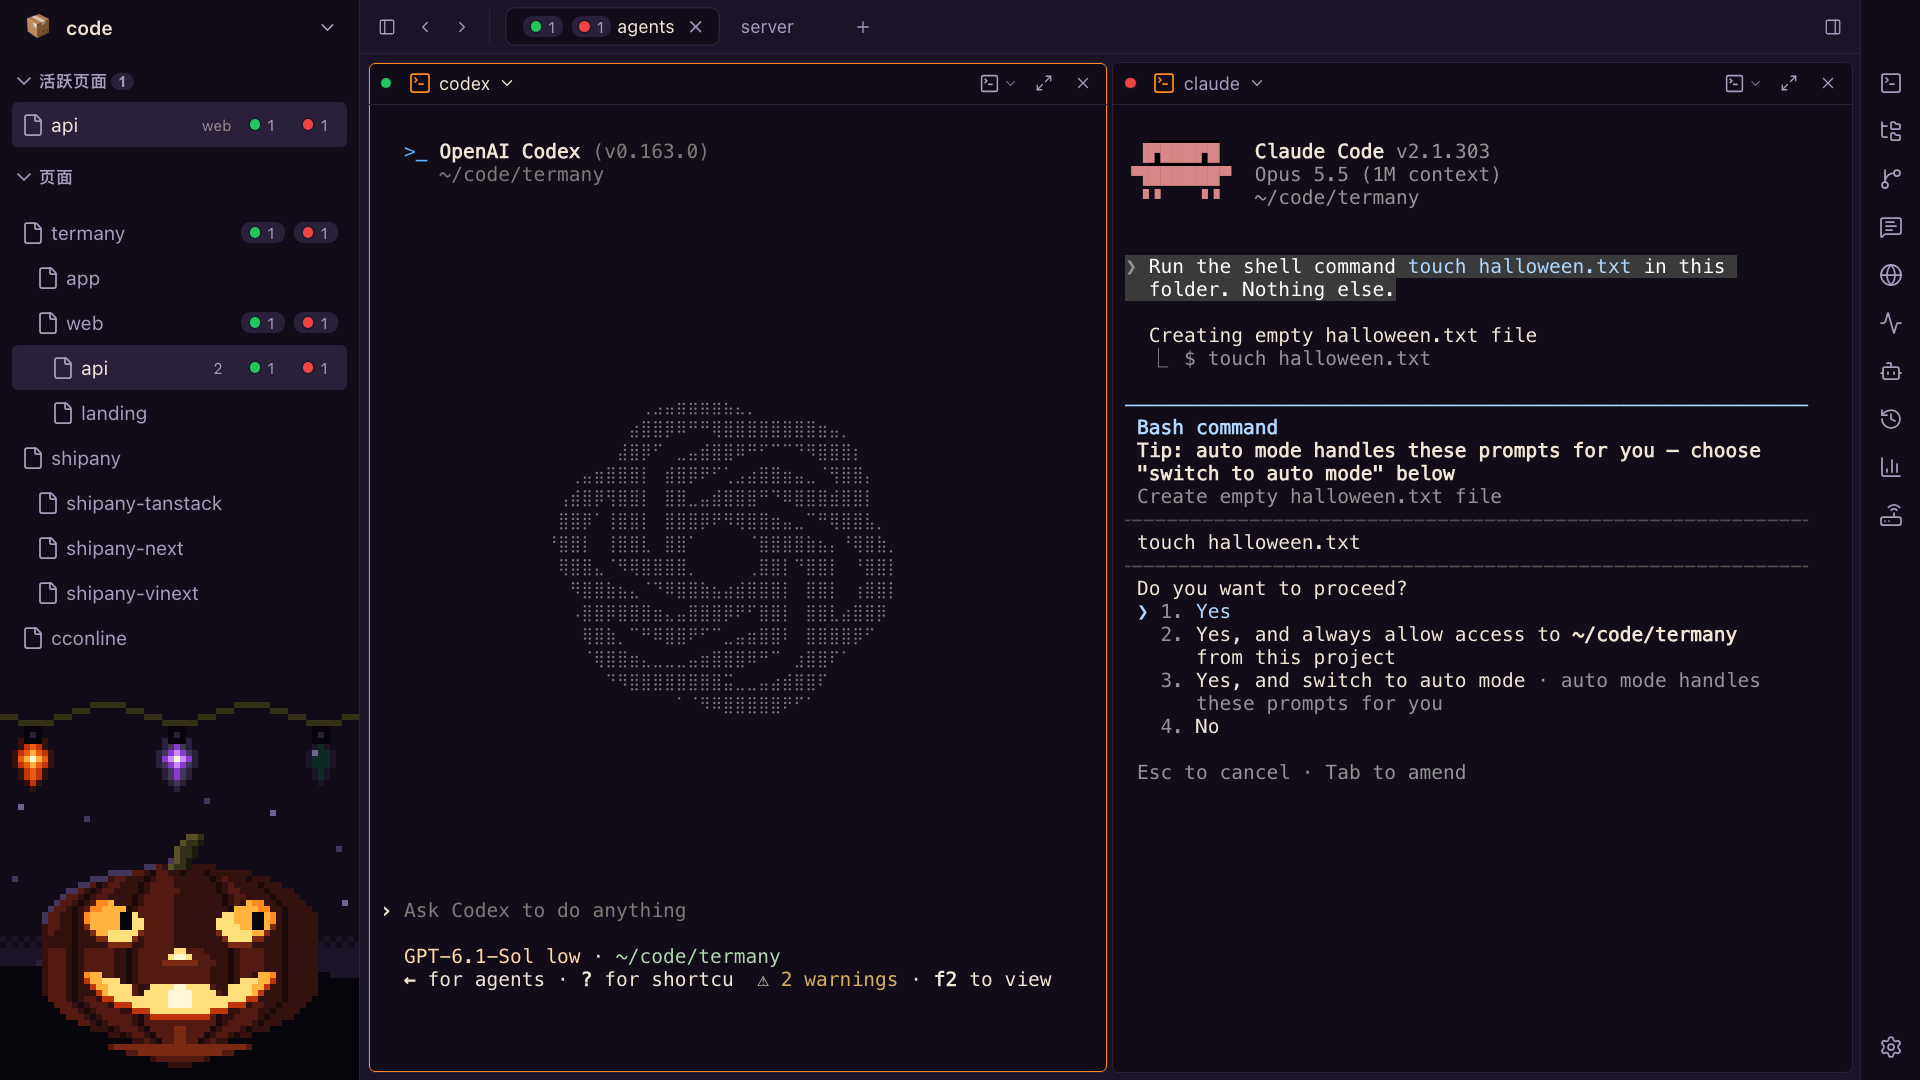
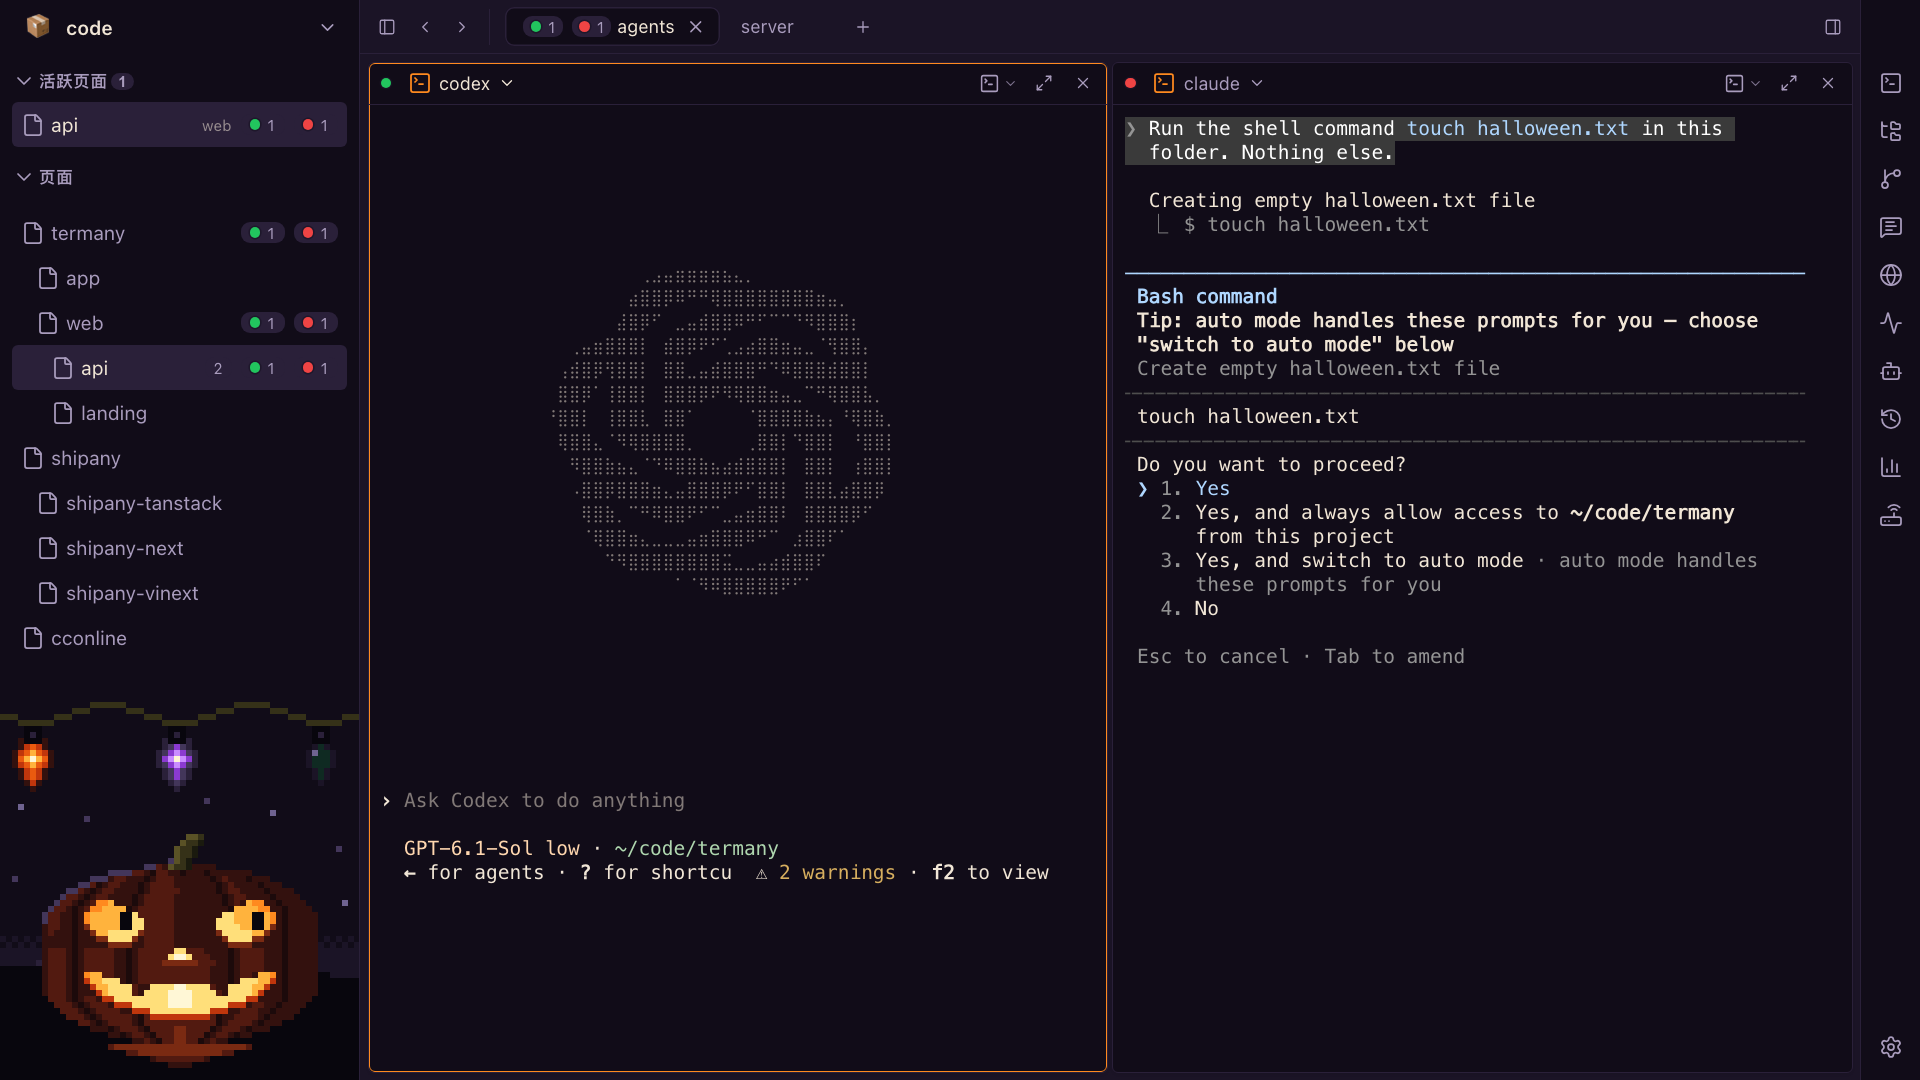
fix(web): keep the Halloween pumpkin visible beside long page lists and rest the scene when unwatched

diff --git a/apps/web/src/themes/halloween/scene.tsx b/apps/web/src/themes/halloween/scene.tsx
@@ -4,8 +4,9 @@ import { Director, gazeToward, showcasePose, type Gaze, type Mood, type Pose } f
 import { CSS_PX, EYES, SCENE_H, SCENE_W, SHEETS, STRING_H, WIRE_X, type SheetName } from "./sheets";
 
 // The Halloween scene at the foot of the sidebar: a light string over a
-// jack-o'-lantern. Frames are composed at art resolution (60x64) and shown
-// at a whole number of device pixels per art pixel, with no smoothing. The
+// jack-o'-lantern. The canvas holds the art at its own resolution (60x64);
+// CSS shows it 4x with `image-rendering: pixelated`, which is a whole number
+// of device pixels per art pixel at every ratio a Mac uses (4, 6, 8). The
 // code only stacks layers and picks frames (./player.ts); every pixel comes
 // from the sheets. It wakes only when a frame is due, never on every display
 // refresh, and sleeps while the window is hidden.
@@ -19,11 +20,6 @@ function showcaseParam(): number | "loop" | null {
   if (v === "loop") return "loop";
   if (v !== null && /^\d+$/.test(v)) return Number(v);
   return null;
-}
-
-/** Device pixels per art pixel: 4 CSS px rounded to whole device pixels. */
-function devicePerArt(): number {
-  return Math.max(1, Math.round(CSS_PX * devicePixelRatio));
 }
 
 async function loadImages(): Promise<Record<SheetName, HTMLImageElement>> {
@@ -86,33 +82,39 @@ class AgentWatch {
   }
 }
 
+/**
+ * The scene rests (holds the still pose, as with reduced motion) while the
+ * window is not focused or nobody has touched it for this long. Every frame
+ * change costs a compositor commit (about 0.6% of a core per change per
+ * second, measured in the packaged app), so an unwatched scene should not
+ * flicker. Alerts still show while resting, as the held flare and the
+ * turned eyes.
+ */
+const REST_AFTER_MS = 30_000;
+
 export default function HalloweenScene() {
   const ref = useRef<HTMLCanvasElement>(null);
 
   useEffect(() => {
     const canvas = ref.current!;
-    const ctx = canvas.getContext("2d")!;
-    const art = document.createElement("canvas");
-    art.width = SCENE_W;
-    art.height = SCENE_H;
-    const actx = art.getContext("2d")!;
+    canvas.width = SCENE_W;
+    canvas.height = SCENE_H;
+    canvas.style.width = `${SCENE_W * CSS_PX}px`;
+    canvas.style.height = `${SCENE_H * CSS_PX}px`;
+    const actx = canvas.getContext("2d")!;
     const showcase = showcaseParam();
     const reducedQuery = matchMedia("(prefers-reduced-motion: reduce)");
     let images: Record<SheetName, HTMLImageElement> | null = null;
     let director: Director | null = null;
     let timer = 0;
     let lastKey = "";
-    let k = 0;
     let disposed = false;
     const watch = new AgentWatch();
-
-    const layout = () => {
-      k = devicePerArt();
-      canvas.width = SCENE_W * k;
-      canvas.height = SCENE_H * k;
-      canvas.style.width = `${(SCENE_W * k) / devicePixelRatio}px`;
-      canvas.style.height = `${(SCENE_H * k) / devicePixelRatio}px`;
-      lastKey = "";
+    let lastInput = performance.now();
+    let resting = false;
+    const onInput = () => {
+      lastInput = performance.now();
+      if (resting) tick();
     };
 
     const blit = (name: SheetName, frame: string, x: number, y: number) => {
@@ -122,7 +124,7 @@ export default function HalloweenScene() {
     };
 
     const draw = (pose: Pose) => {
-      const key = [pose.flame, pose.pupils, pose.lids, ...pose.bulbs, k].join();
+      const key = [pose.flame, pose.pupils, pose.lids, ...pose.bulbs].join();
       if (key === lastKey) return;
       lastKey = key;
       // Readable by tests and the showcase export: which frame each layer shows.
@@ -137,9 +139,6 @@ export default function HalloweenScene() {
       blit("pupils", pose.pupils, 0, STRING_H);
       blit("lids", pose.lids, 0, STRING_H);
       blit("body", "body", 0, STRING_H);
-      ctx.imageSmoothingEnabled = false;
-      ctx.clearRect(0, 0, canvas.width, canvas.height);
-      ctx.drawImage(art, 0, 0, SCENE_W * k, SCENE_H * k);
     };
 
     const tick = () => {
@@ -147,32 +146,33 @@ export default function HalloweenScene() {
       if (disposed || !images || document.hidden) return;
       const now = performance.now();
       let pose: Pose;
+      let watching = false;
       if (showcase !== null) {
         pose = showcasePose(SHEETS, showcase === "loop" ? now : showcase);
         if (showcase !== "loop") pose.next = Infinity;
       } else {
         const { mood, target } = watch.read(canvas);
-        pose = director!.pose(now, mood, target, reducedQuery.matches);
+        watching = target !== null;
+        const idleFor = now - lastInput;
+        resting = !document.hasFocus() || idleFor >= REST_AFTER_MS;
+        pose = director!.pose(now, mood, target, reducedQuery.matches || resting);
+        // Wake again when the rest timer runs out.
+        if (!resting) pose.next = Math.min(pose.next, REST_AFTER_MS - idleFor);
       }
       draw(pose);
-      // While an agent is busy or waiting, look again at least every 500 ms
-      // so the gaze follows the pane even when no frame is due.
-      const next = showcase === null ? Math.min(pose.next, 500) : pose.next;
+      // While the eyes follow a pane, look again at least every 500 ms in
+      // case the pane moved. Otherwise agent activity wakes the scene.
+      const next = watching ? Math.min(pose.next, 500) : pose.next;
       if (next !== Infinity) timer = window.setTimeout(tick, Math.max(16, next));
     };
 
-    layout();
-    let dprQuery = matchMedia(`(resolution: ${devicePixelRatio}dppx)`);
-    const onDpr = () => {
-      dprQuery.removeEventListener("change", onDpr);
-      dprQuery = matchMedia(`(resolution: ${devicePixelRatio}dppx)`);
-      dprQuery.addEventListener("change", onDpr);
-      layout();
-      tick();
-    };
-    dprQuery.addEventListener("change", onDpr);
     reducedQuery.addEventListener("change", tick);
     document.addEventListener("visibilitychange", tick);
+    window.addEventListener("focus", onInput);
+    window.addEventListener("blur", tick);
+    for (const type of ["keydown", "pointermove", "pointerdown", "wheel"] as const) {
+      window.addEventListener(type, onInput, { capture: true, passive: true });
+    }
     const unsubscribe = subscribeAgentActivity(tick);
     loadImages()
       .then((imgs) => {
@@ -186,9 +186,13 @@ export default function HalloweenScene() {
     return () => {
       disposed = true;
       window.clearTimeout(timer);
-      dprQuery.removeEventListener("change", onDpr);
       reducedQuery.removeEventListener("change", tick);
       document.removeEventListener("visibilitychange", tick);
+      window.removeEventListener("focus", onInput);
+      window.removeEventListener("blur", tick);
+      for (const type of ["keydown", "pointermove", "pointerdown", "wheel"] as const) {
+        window.removeEventListener(type, onInput, { capture: true });
+      }
       unsubscribe();
     };
   }, []);

diff --git a/apps/web/src/themes/halloween/halloween.css b/apps/web/src/themes/halloween/halloween.css
@@ -1,29 +1,25 @@
 /* The Halloween scene at the foot of the sidebar (./scene.tsx).
-   The page tree comes first and keeps its height; the scene takes what is
-   left, up to its full 256 px (64 art px x 4). When it gets less, the canvas
-   stays bottom-aligned and its top rows are cut off: cropped, never scaled
-   (PX-2 in art/PALETTE.md). The sky is the sidebar's own N1, so the cut edge
-   does not show. Below 80 px a sliver would read as a glitch, so it hides. */
+   The scene is 256 px tall (64 art px x 4): a 64 px light string over the
+   192 px night with the pumpkin. The pumpkin must stay visible however many
+   pages there are, so the scene keeps at least 192 px and the page tree
+   scrolls instead, down to 96 px of its own. Only the light string at the
+   top is ever cropped: cut off, never scaled (PX-2 in art/PALETTE.md). The
+   sky is the sidebar's own N1, so the cut edge does not show. */
 html[data-theme="halloween"] .sidebar:has(> .theme-scene) > .tree {
-  flex: 1 1 auto;
+  flex: 1 1 0;
+  min-height: 96px;
 }
 html[data-theme="halloween"] .theme-scene {
-  flex: 0 1000 256px;
-  min-height: 0;
+  flex: 0 1 256px;
+  min-height: 192px;
   overflow: hidden;
   display: flex;
   flex-direction: column;
   justify-content: flex-end;
-  container-type: size;
   pointer-events: none;
 }
 html[data-theme="halloween"] .halloween-scene {
   display: block;
   flex: none;
   image-rendering: pixelated;
-}
-@container (max-height: 79px) {
-  html[data-theme="halloween"] .halloween-scene {
-    display: none;
-  }
 }
